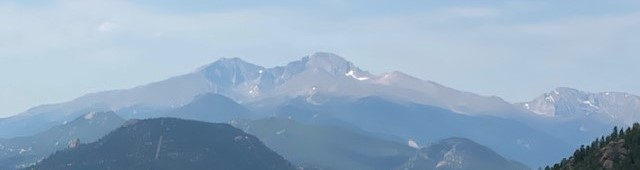
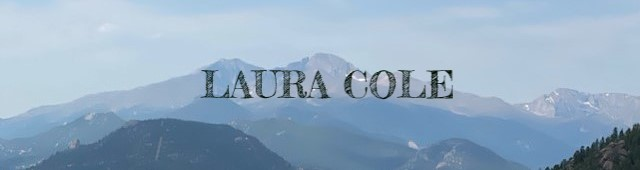
adding my name to the header pic & some fun to the text

diff --git a/README.md b/README.md
@@ -1,14 +1,14 @@
 <div align="center"><img src="assets/meeker-n-longs-narrow.jpg" alt="Header" width=100%></div>
 
-# Hello! Welcome! I'm [Laura](https://lauracole1900.github.io/react-portfolio/).
+# 👋 Hello! Welcome! I'm [Laura](https://lauracole1900.github.io/react-portfolio/).
 
-I'm a webdev/musician/martial artist with a background in education and a passion for helping others. Want to know more?
+I'm a 👩💻 webdev / 🎶 musician / 🥋 martial artist with a background in education and a passion for helping others. Want to know more?
 
 * [My Github](https://github.com/LauraCole1900)
 * [My Repositories](https://github.com/LauraCole1900?tab=repositories)
 * [My LinkedIn](https://www.linkedin.com/in/laura-cole-3661b01b9/)
 * [My Website](https://lauracole1900.github.io/react-portfolio/)
-* [My Résumé](https://drive.google.com/file/d/1gOy3CkufWH_k_Y9dVFQYfZc955bPCT25/view?usp=sharing)
+* [My Résumé](https://drive.google.com/file/d/1gOy3CkufWH_k_Y9dVFQYfZc955bPCT25/view)
 * [Email me!](mailto:lauracole1900@comcast.net)
 
 |Pinned Repos|Pinned Repos|
